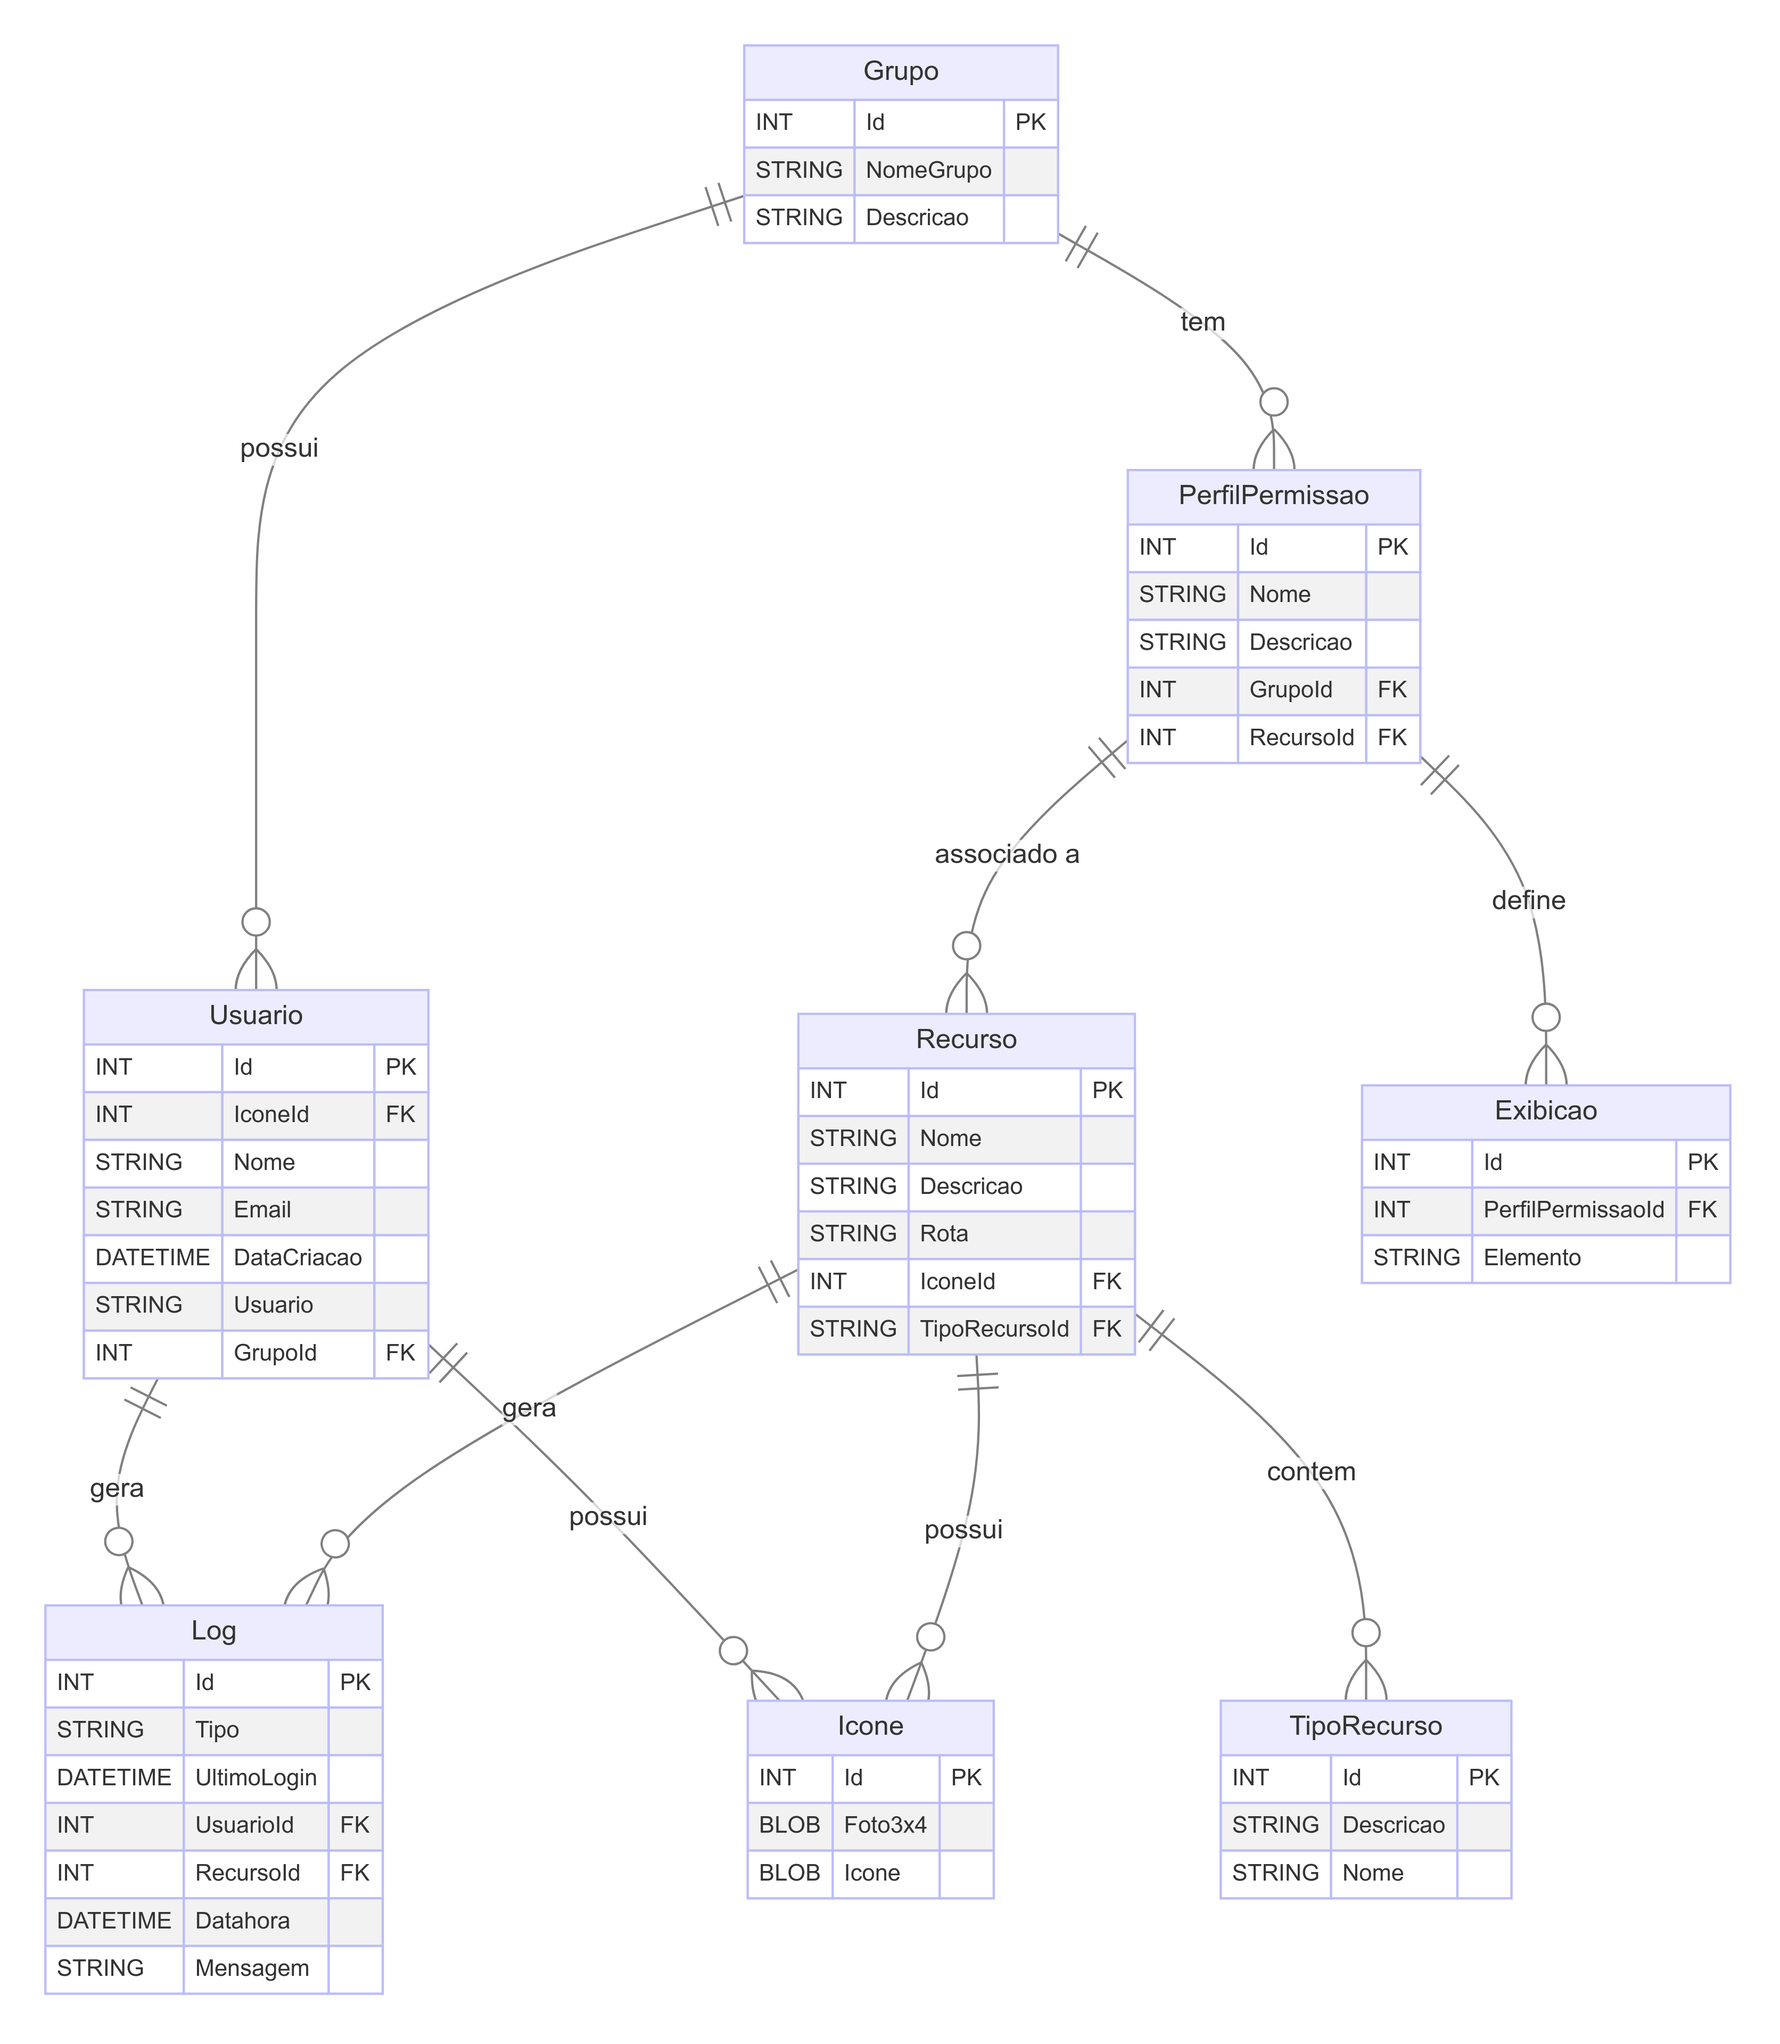
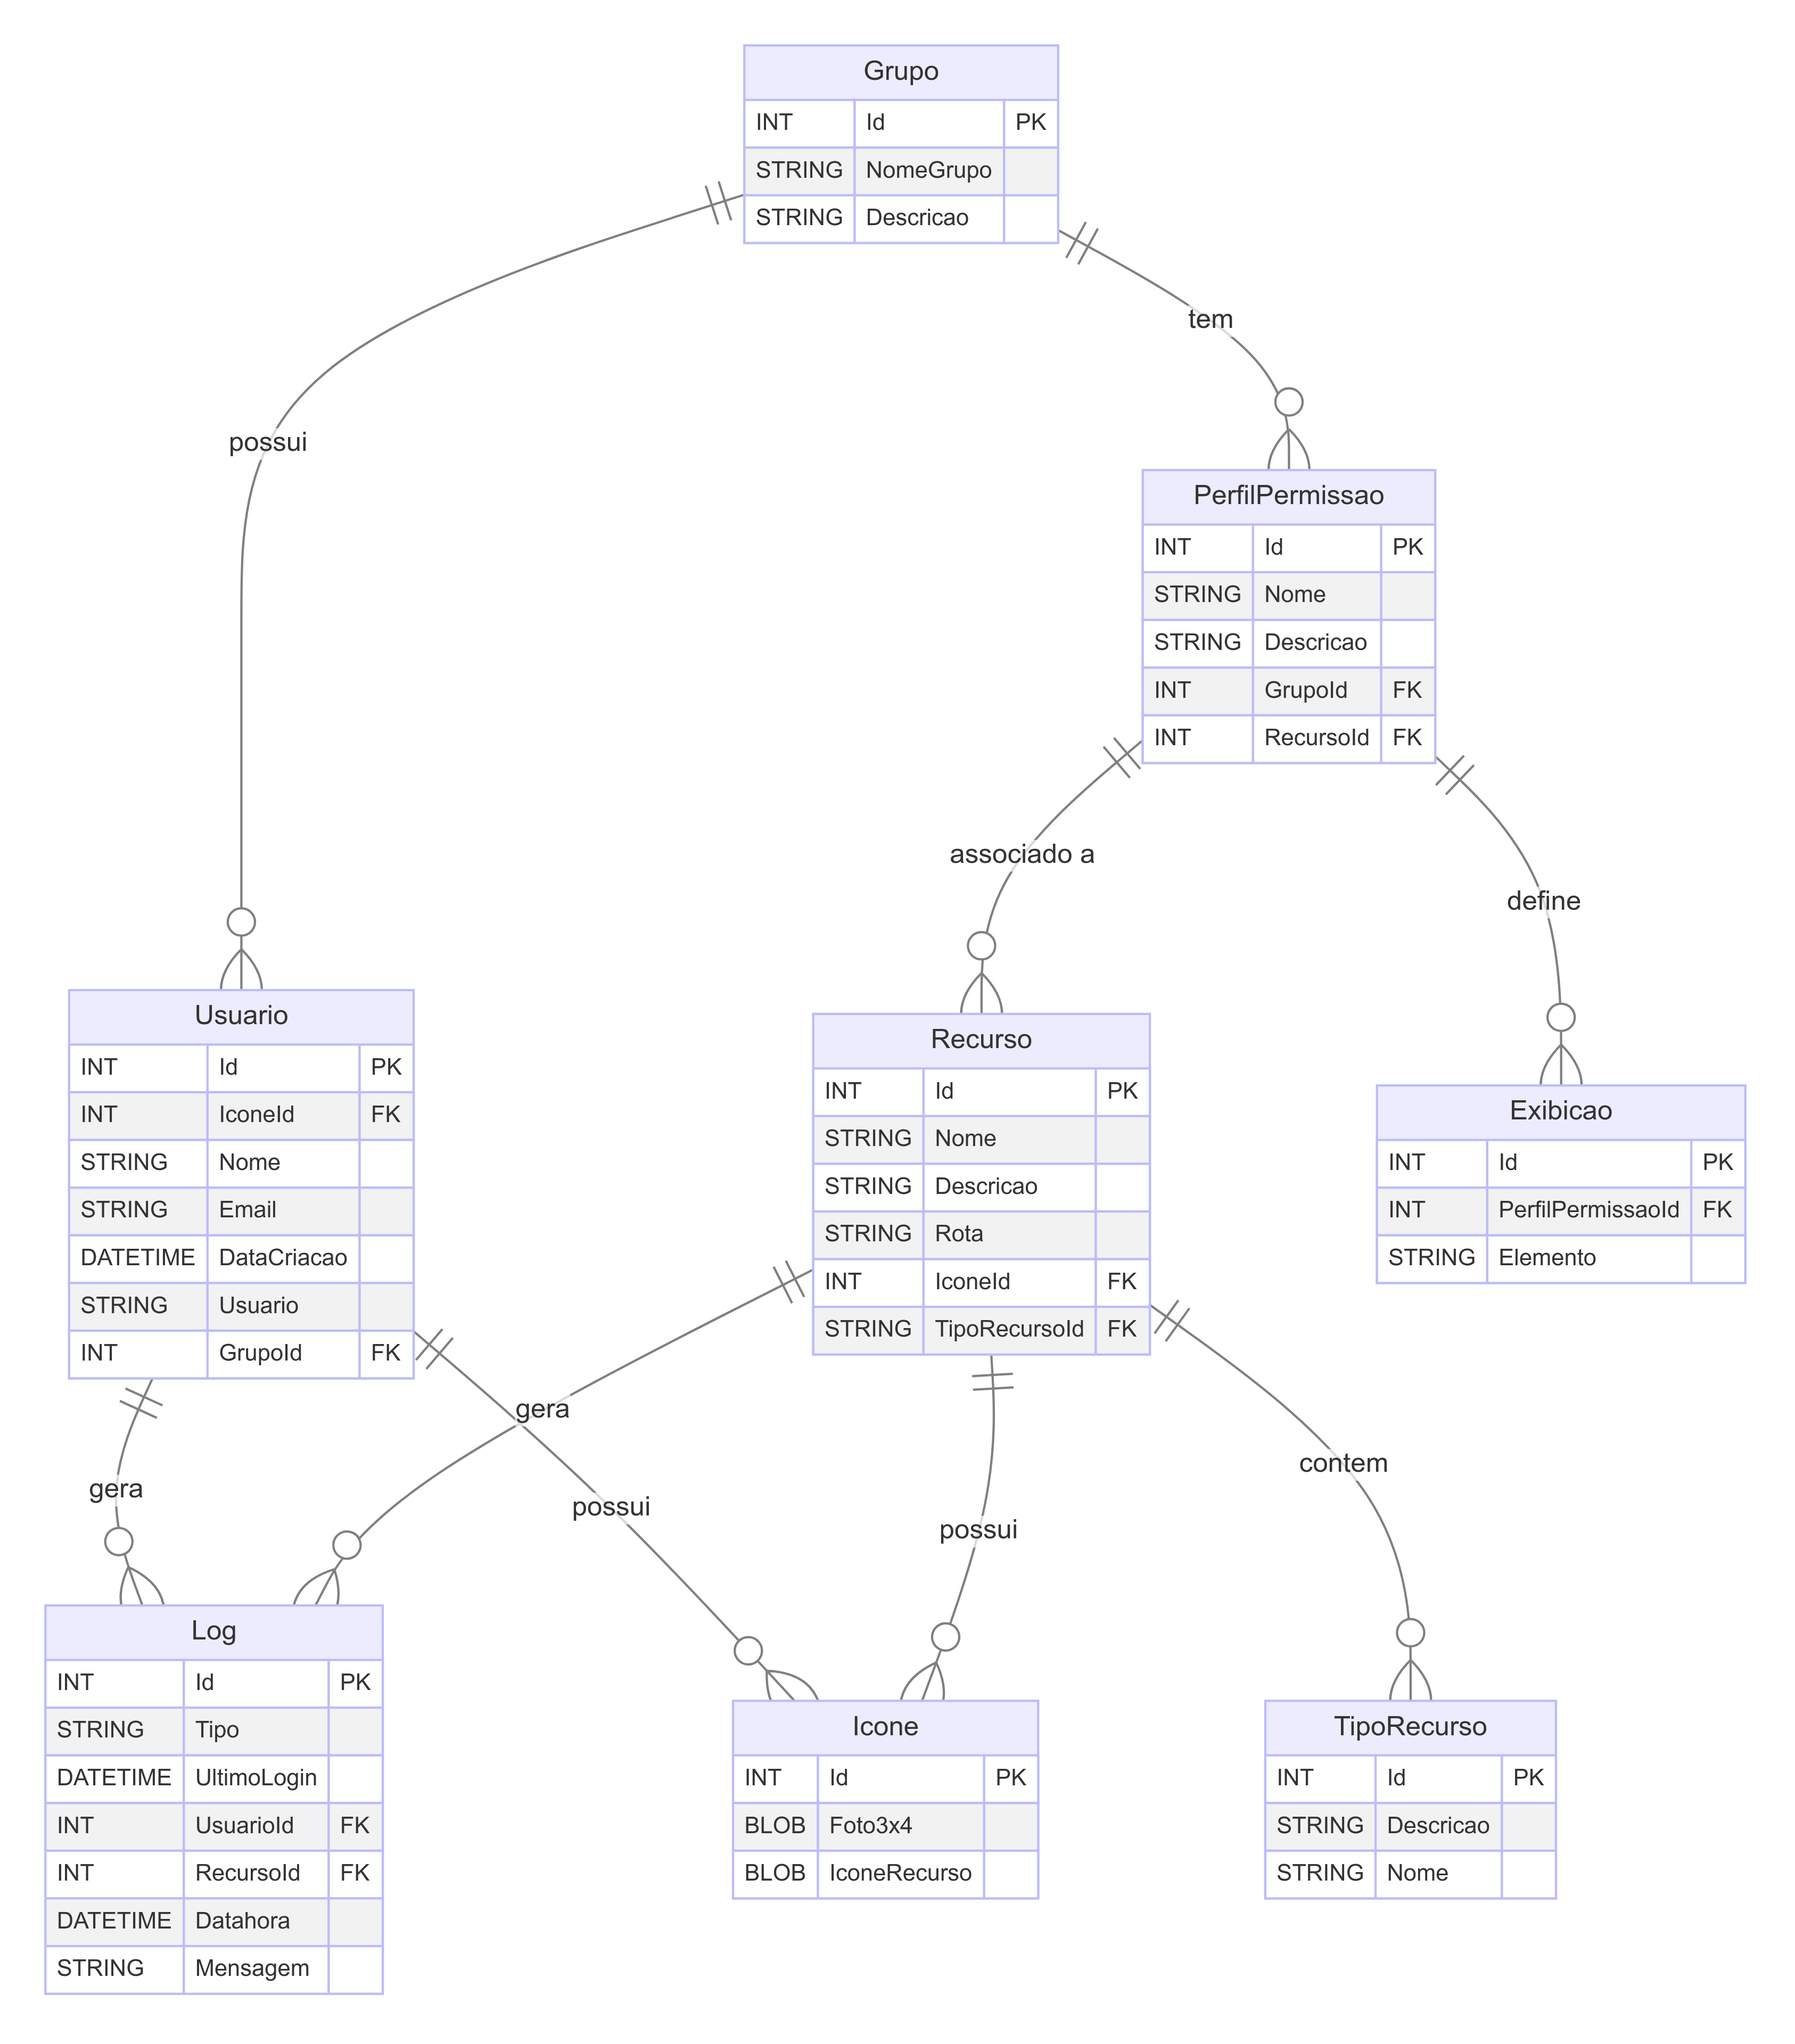
atualizando

diff --git a/README.md b/README.md
@@ -182,65 +182,65 @@ O diagrama a seguir representa visualmente o relacionamento entre as tabelas:
 erDiagram
 
     Grupo {
-        INT id PK
-        STRING nome_grupo
-        STRING descricao
+        INT Id PK
+        STRING NomeGrupo
+        STRING Descricao
     }
     
     Usuario {
-        INT id PK
-        INT icone_id FK
-        STRING nome
-        STRING email
-        DATETIME data_criacao
-        STRING usuario
-        INT grupo_id FK
+        INT Id PK
+        INT IconeId FK
+        STRING Nome
+        STRING Email
+        DATETIME DataCriacao
+        STRING Usuario
+        INT GrupoId FK
     }
 
     
     Icone {
-        INT id PK
-        BLOB foto3x4
-        BLOB icone
+        INT Id PK
+        BLOB Foto3x4
+        BLOB IconeRecurso
     }
     
     Recurso {
-        INT id PK
-        STRING nome
-        STRING descricao
-        STRING rota
-         INT icone_id FK
-        STRING tipo_recurso_id FK
+        INT Id PK
+        STRING Nome
+        STRING Descricao
+        STRING Rota
+         INT IconeId FK
+        STRING TipoRecursoId FK
     }
 
      TipoRecurso {
-        INT id PK
-        STRING descricao
-        STRING nome
+        INT Id PK
+        STRING Descricao
+        STRING Nome
     }
     
     Log {
-        INT id PK
-        STRING tipo
-        DATETIME ultimo_login
-        INT usuario_id FK
-        INT aplicacao_id FK
-        DATETIME datahora
-        STRING mensagem
+        INT Id PK
+        STRING Tipo
+        DATETIME UltimoLogin
+        INT UsuarioId FK
+        INT RecursoId FK
+        DATETIME Datahora
+        STRING Mensagem
     }
     
     PerfilPermissao {
-        INT id PK
-        STRING nome
-        STRING descricao
-        INT grupo_id FK
-        INT aplicacao_id FK
+        INT Id PK
+        STRING Nome
+        STRING Descricao
+        INT GrupoId FK
+        INT RecursoId FK
     }
     
     Exibicao {
-        INT id PK
-        INT perfil_permissao_id FK
-        STRING elementos
+        INT Id PK
+        INT PerfilPermissaoId FK
+        STRING Elemento
     }
     
     Grupo ||--o{ Usuario : "possui"
